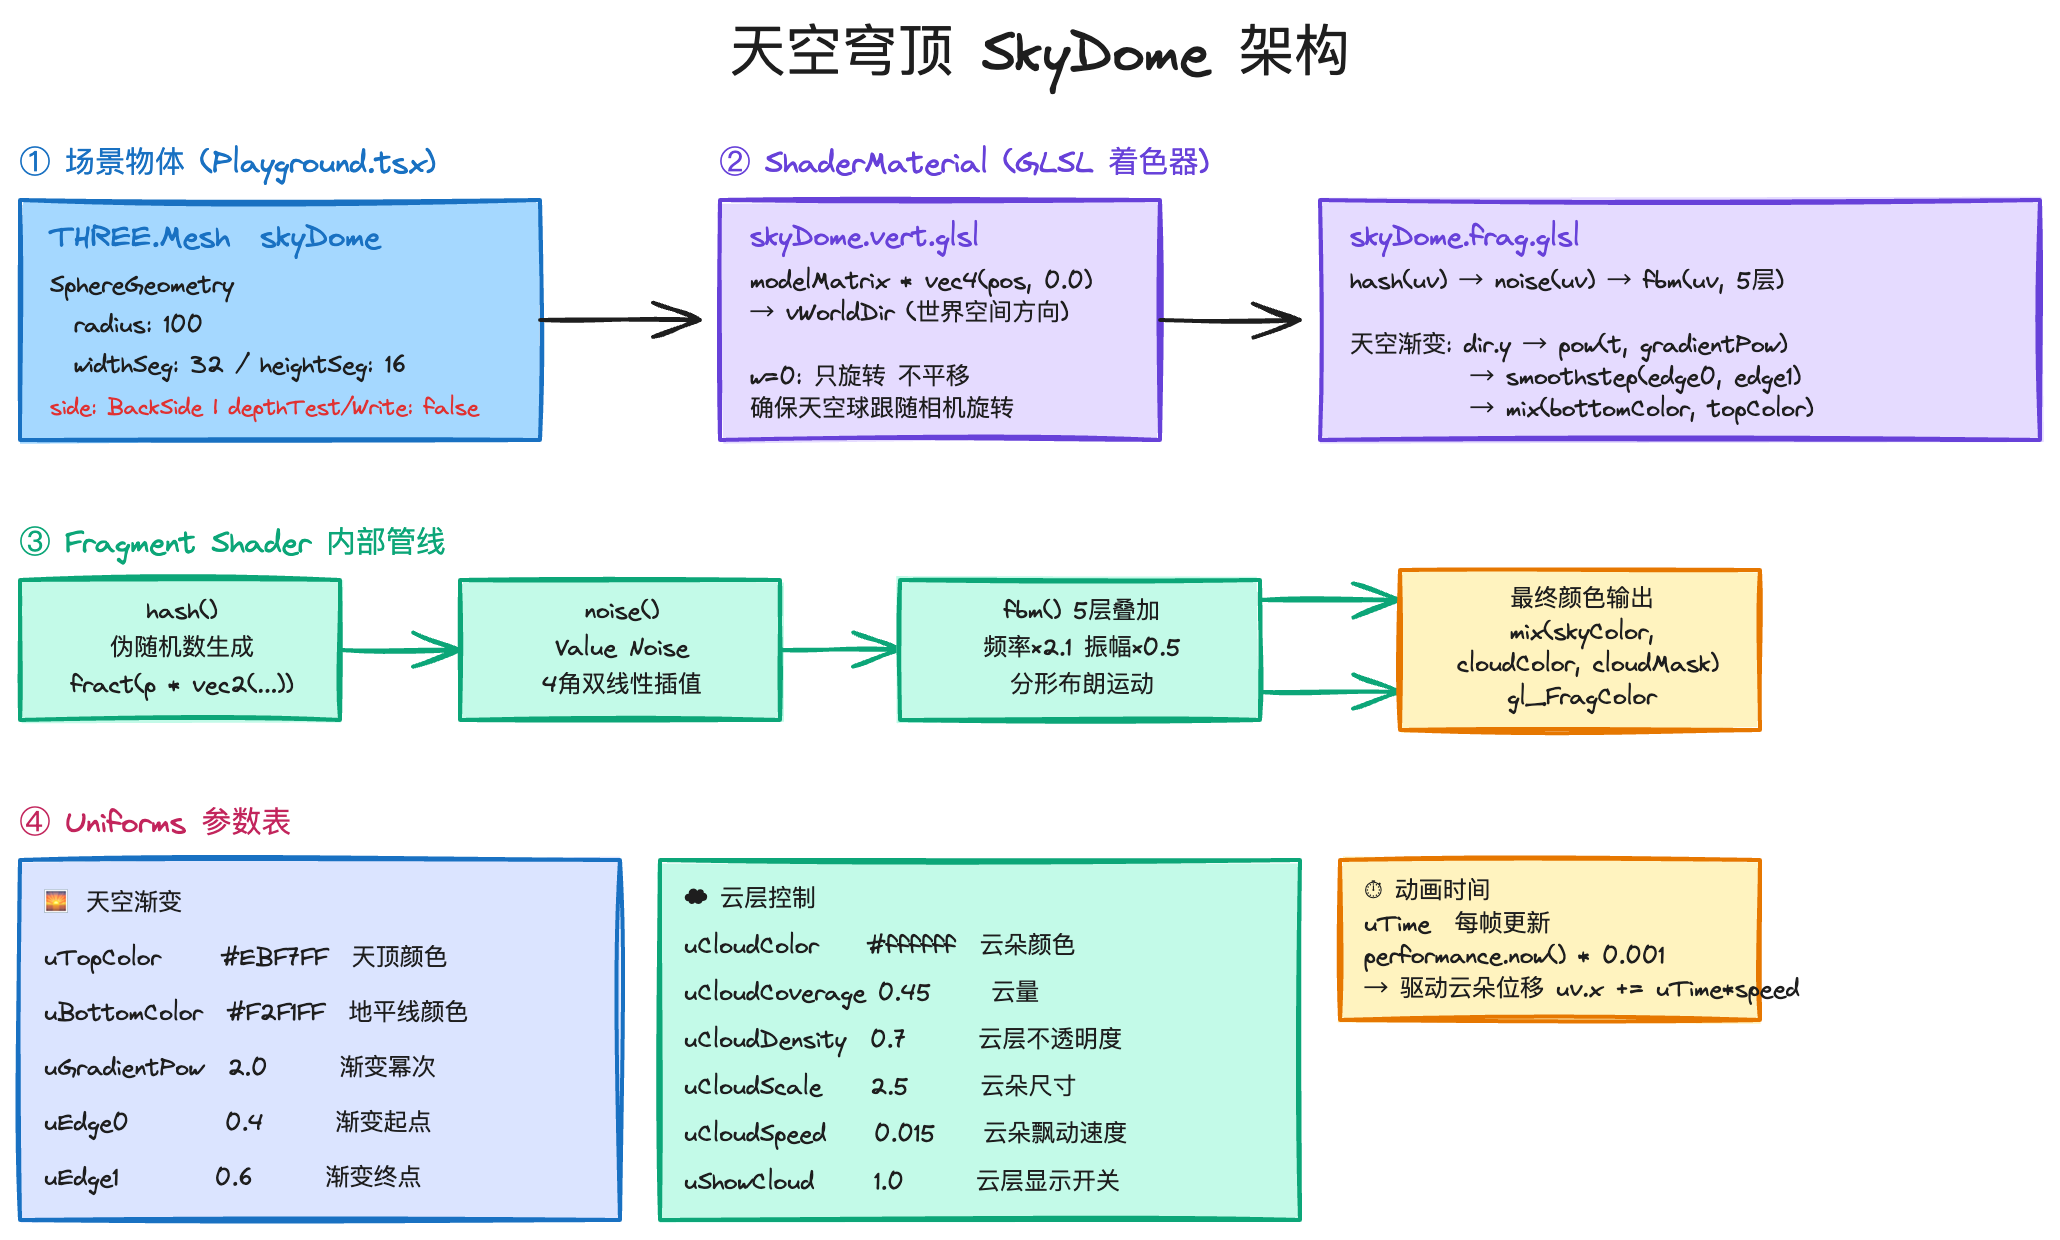
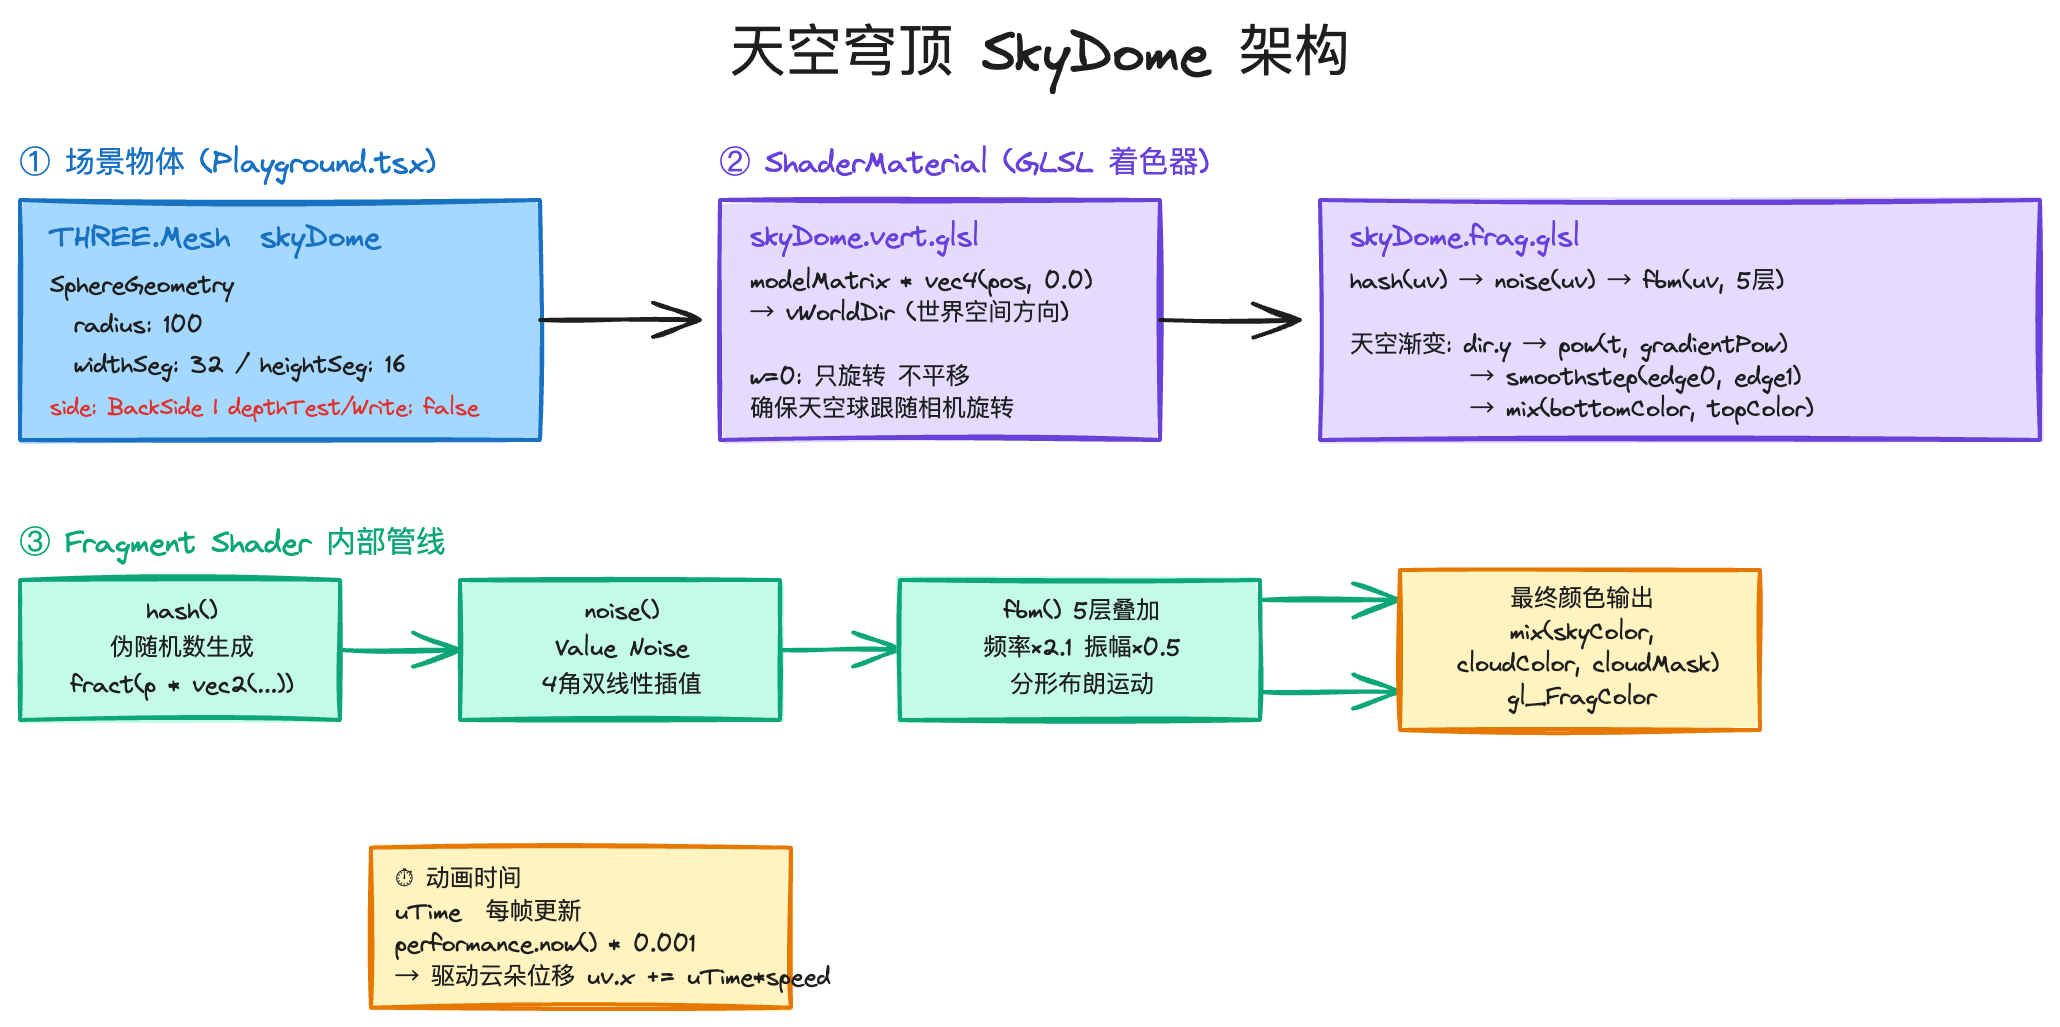
feat: improve doc

diff --git a/src/uiSprite.ts b/src/uiSprite.ts
@@ -32,13 +32,16 @@ export function designPxToWorld(dsX: number, dsY: number, z: number, designW: nu
   // 先按屏幕/设计稿比例缩放，再映射到 [-1,1]
   // Y 轴取反：设计稿 y 向下，NDC y 向上
   const designScale = innerWidth / designW
+
+  // 1920位置*缩放系数/真实宽度*2-1
   const ndcX = ((dsX * designScale) / innerWidth) * 2 - 1
   const ndcY = -((dsY * designScale) / innerHeight) * 2 + 1
 
+  // 这个ndc位置进行逆变换到世界空间中
   // NDC → 世界空间：unproject 把 NDC 点反投影到相机近平面附近的世界坐标
   const ndcPoint = new THREE.Vector3(ndcX, ndcY, 0.5)
   ndcPoint.unproject(camera)
-
+  // 世界空间中的点 - 相机世界位置
   // 射线方向 = 反投影点 - 相机位置，归一化
   const rayDir = ndcPoint.sub(camera.position).normalize()
 
@@ -49,6 +52,9 @@ export function designPxToWorld(dsX: number, dsY: number, z: number, designW: nu
   //   t = (z - camera.position.z) / rayDir.z
   // t 是射线走了多远，代入 x/y 得到交点的世界坐标
 
+  // 所以，某个点的坐标在世界空间中表示为:
+  // z = camera.position.z + t * rayDir.z
+  // y = camera.position.y + t * rayDir.y
   // 这里其实是求出设置的z深度的 t 应该是什么
   const t = (z - camera.position.z) / rayDir.z
   // 通过这个t推导出x和z

diff --git a/README.md b/README.md
@@ -250,7 +250,7 @@ color   = texture2D(tDiffuse, distUV)        // 用畸变后的 UV 采样
 
 NDC坐标：ndcX = (dsX × scale / innerWidth) × 2 - 1
 
-反投影：ndcPoint.unproject(camera)  
+反投影：rayDir = ndcPoint.unproject(camera)  
 
 世界坐标：worldX = camera.x + (z - camera.z) / rayDir.z × rayDir.x
 ```
@@ -265,7 +265,6 @@ NDC坐标：ndcX = (dsX × scale / innerWidth) × 2 - 1
 w = worldX(left + itemW) - worldX(left)   // 由设计稿宽度反算世界宽度
 h = w / (img.width / img.height)          // 保持贴图宽高比
 position = (x0 + w/2, y0 - h/2, z)       // 左上角对齐设计稿坐标
-renderOrder = 999                         // 始终渲染在场景最上层
 ```
 
 ### 4.7 动画系统
